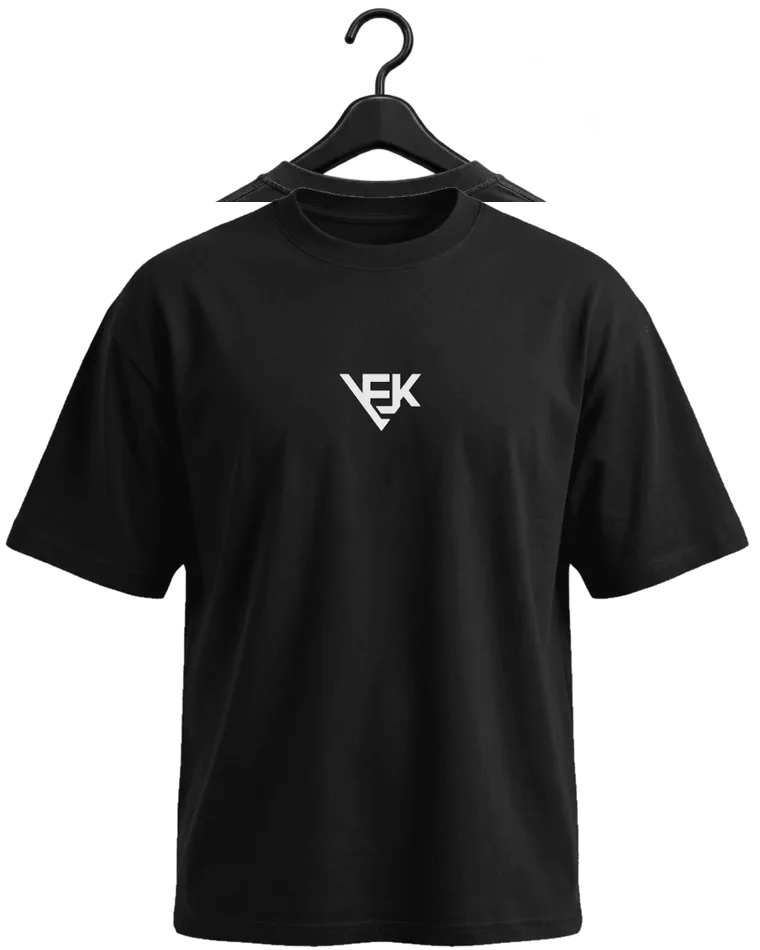
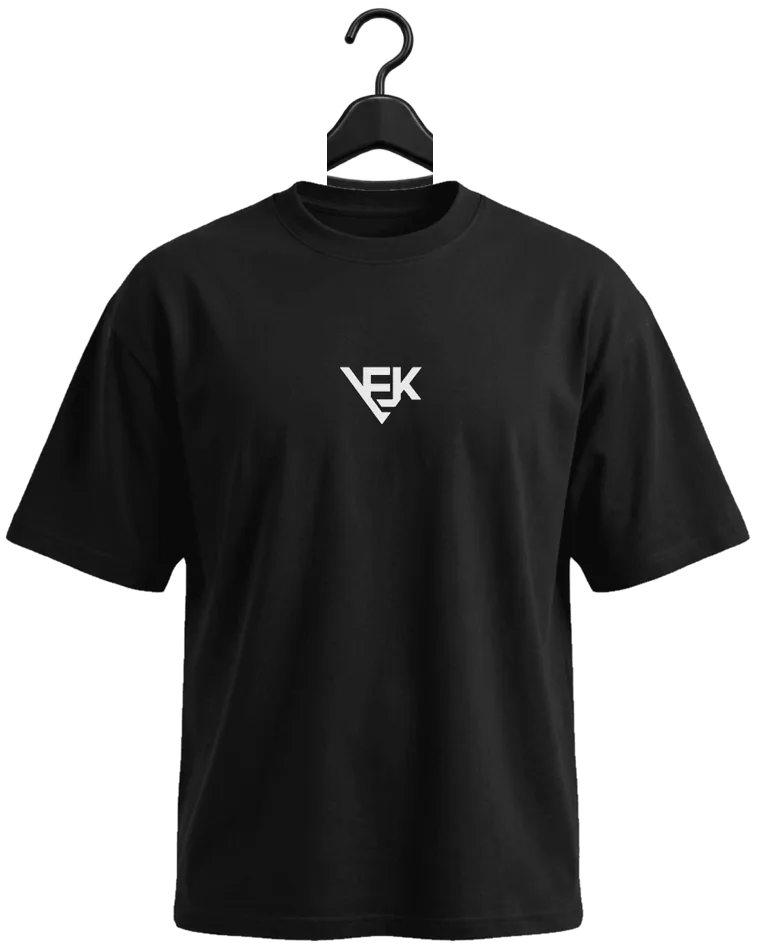
Rack hero: aligned other sides, Japan front, Silent Threat back
- Other-side textures are stretched onto the hanger shot's exact
  silhouette and keep only the hook + hanger neck, so the turn lines up
- Japan front made from the negative of the Darwish front (white tee,
  black VEK logo); Silent Threat back from the washed long-sleeve back
- Each hanger shot declares which side it shows; cloth.js works in
  shot/turn faces and rack.js maps them to Front/Back
- Cache-bust regenerated textures

diff --git a/public/js/cloth.js b/public/js/cloth.js
@@ -161,8 +161,8 @@ function init() {
   let lookYaw = 0; // turns gently towards the mouse while hovering
   let dragging = false;
 
-  // Pieces with a turn side face "back" (the hanger shot) or "front" (turned half round).
-  let side = "back";
+  // Pieces with a turn side show their "shot" face (the hanger shot) or "turn" (half round).
+  let side = "shot";
   let base = 0;        // resting angle: a multiple of π
   let lastFlip = 0;
   let idleSince = 0;
@@ -171,10 +171,10 @@ function init() {
     side = next;
     // the nearest multiple of π with the right parity, so it never spins the long way
     const k = Math.round(yaw / Math.PI);
-    const wantOdd = next === "front";
+    const wantOdd = next === "turn";
     base = (Math.abs(k) % 2 === 1) === wantOdd ? k * Math.PI : (k + (yaw > k * Math.PI ? 1 : -1)) * Math.PI;
     lastFlip = time;
-    if (emit) rack.dispatchEvent(new CustomEvent("cloth:side", { detail: { side } }));
+    if (emit) rack.dispatchEvent(new CustomEvent("cloth:side", { detail: { face: side } }));
   }
 
   // Tint each vertex by how squarely it faces the viewer: 1 = the photo's own colour,
@@ -209,7 +209,7 @@ function init() {
 
     // show off the other side now and then while nobody is touching it
     if (c.turns && !dragging && time - idleSince > 6 && time - lastFlip > 5.5) {
-      turnTo(side === "back" ? "front" : "back", true);
+      turnTo(side === "shot" ? "turn" : "shot", true);
     }
 
     for (let i = 0; i < c.count; i++) {
@@ -340,10 +340,10 @@ function init() {
       // settle on whichever side is closest to where it was let go
       const k = Math.round((base + yawTarget) / Math.PI);
       base = k * Math.PI;
-      const next = Math.abs(k) % 2 === 1 ? "front" : "back";
+      const next = Math.abs(k) % 2 === 1 ? "turn" : "shot";
       if (next !== side) {
         side = next;
-        rack.dispatchEvent(new CustomEvent("cloth:side", { detail: { side } }));
+        rack.dispatchEvent(new CustomEvent("cloth:side", { detail: { face: side } }));
       }
       lastFlip = time;
     }
@@ -419,7 +419,7 @@ function init() {
     yaw = 0;
     yawTarget = 0;
     lookYaw = 0;
-    side = "back";
+    side = "shot";
     base = 0;
     lastFlip = time;
     idleSince = time - 3; // first turn comes a few seconds after it settles
@@ -436,7 +436,7 @@ function init() {
   rack.addEventListener("rack:side", (e) => {
     if (!cloth || !cloth.turns) return;
     idleSince = time + 6; // the shopper chose a side — hold it a good while
-    turnTo(e.detail.side, false);
+    turnTo(e.detail.face, false);
   });
 
   // pause when the rack is off screen or the tab is hidden

diff --git a/public/js/rack.js b/public/js/rack.js
@@ -127,18 +127,22 @@
     addEl.textContent = d.soldout ? "Sold out" : "Quick add";
 
     toggle.hidden = !d.back && !d.turn;
-    setSide(d.back || d.turn ? "back" : "front", true, true);
+    setSide(d.turn ? d.shotside : (d.back ? "back" : "front"), true, true);
     announce();
   }
 
   /* ---------- front / back ---------- */
-  // Photo pieces swap their image. Hanger shots with a `turn` side are 3D: the hanger
-  // shot is their back and cloth.js turns the fabric round to show the front.
+  // Photo pieces swap their image. Hanger shots with a `turn` side are 3D: cloth.js shows
+  // the hanger shot ("shot" face, which is the piece's d.shotside) or turns it round to
+  // the other side ("turn" face).
+  function faceOf(d, side) { return side === d.shotside ? "shot" : "turn"; }
+  function sideOf(d, face) { return face === "shot" ? d.shotside : (d.shotside === "back" ? "front" : "back"); }
+
   function setSide(side, instant, quiet) {
     var d = data(current);
     var picture = img(current);
     var src = d.turn
-      ? (side === "front" ? d.turn : d.front)
+      ? (faceOf(d, side) === "turn" ? d.turn : d.front)
       : (side === "back" && d.back ? d.back : d.front);
 
     toggle.classList.toggle("is-back", side === "back");
@@ -146,7 +150,7 @@
       b.classList.toggle("is-on", b.getAttribute("data-side") === side);
     });
 
-    if (d.turn && !quiet) rack.dispatchEvent(new CustomEvent("rack:side", { detail: { side: side } }));
+    if (d.turn && !quiet) rack.dispatchEvent(new CustomEvent("rack:side", { detail: { face: faceOf(d, side) } }));
 
     if (picture.getAttribute("src") === src) return;
     if (instant) { picture.src = src; return; }
@@ -169,7 +173,7 @@
   }
 
   // the fabric turned by itself (or was dragged round) — keep the toggle in step
-  rack.addEventListener("cloth:side", function (e) { setSide(e.detail.side, true, true); });
+  rack.addEventListener("cloth:side", function (e) { setSide(sideOf(data(current), e.detail.face), true, true); });
 
   /* ---------- let the 3D fabric (cloth.js) know which piece is in focus ---------- */
   var settleTimer = null;
